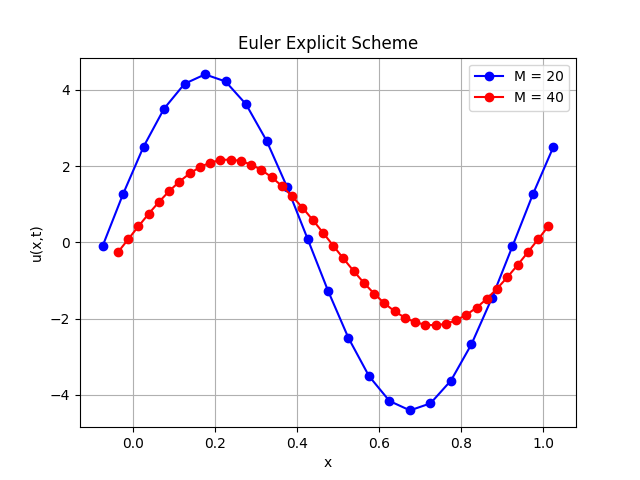
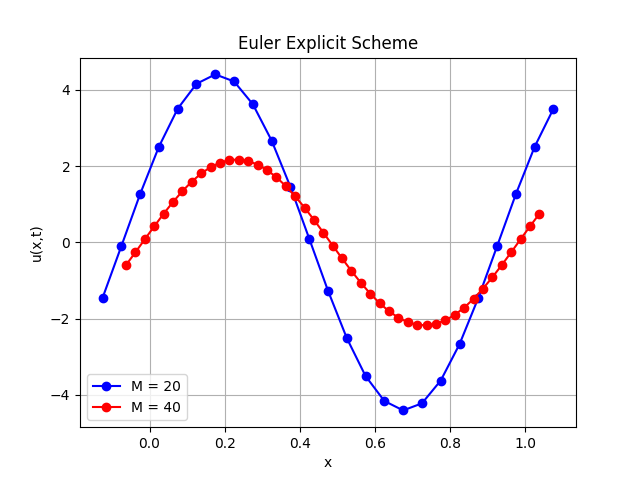
12/1 1400

diff --git a/PHW2/RK_Burger_flux.py b/PHW2/RK_Burger_flux.py
@@ -1,0 +1,113 @@
+# Author : Bo Yuan You 
+# Date 2021/11/30
+# CFD program homework 2 
+# To solve Burger eq with Euler explict method (flux)
+
+
+import numpy as np
+import matplotlib.pyplot as plt
+import time
+from RK2_Burger import RK_Burger
+
+class RK_Flux_Burger_eq(RK_Burger):
+    def __init__(self, CFL, M, alpha=0.75, k=0, limiter=False) -> None:
+        super().__init__(CFL, M, alpha=alpha)
+        # self.ul = np.zeros(M+2)
+        # self.ur = np.zeros(M+2)
+        # self.u1l = np.zeros(M+2)
+        # self.u1l = np.zeros(M+2)
+        self.k = k
+        self.limiter=limiter
+
+    def minmoid(a,b,c)->float:
+        if a>0 and b>0 and c>0:
+            return min(a,b,c)
+        elif a<0 and b<0 and c<0:
+            return max(a,b,c)
+        else:
+            return 0.0
+
+    def solver(self, t) -> None:
+        print(f'Using Runge-Kutta solver: t = {t:.2f}')
+        # if self.limiter:
+        #     for i in range(self.M+2):
+        #         self.ul[i] = self.u0[i+1] + 0.25*self.minmoid((1-self.k)*(self.u0[i+1] - self.u0[i]))
+        #         sol = 
+        # else:
+        for i in range(self.M+2):
+            ul = self.u0[i+1] + 0.25*((1-self.k)*(self.u0[i+1] - self.u0[i]) + (1+self.k)*(self.u0[i+2] - self.u0[i+1]))
+            ur = self.u0[i+2] + 0.25*((1-self.k)*(self.u0[i+2] - self.u0[i+1]) + (1+self.k)*(self.u0[i+3] - self.u0[i+2]))
+            self.f[i] = 0.5*(ul**2/2 + ur**2/2 - self.alpha*(ur - ul))
+
+
+        for i in range(self.M + 1):
+            self.u1[i+2] = self.u0[i+2] - self.DT/self.DX*(self.f[i+2] - self.f[i+1])
+        self.call_BC(self.u1)
+
+        for i in range(self.M+2):
+            ul = self.u1[i+1] + 0.25*((1-self.k)*(self.u1[i+1] - self.u1[i]) + (1+self.k)*(self.u1[i+2] - self.u1[i+1]))
+            ur = self.u1[i+2] + 0.25*((1-self.k)*(self.u1[i+2] - self.u1[i+1]) + (1+self.k)*(self.u1[i+3] - self.u1[i+2]))
+            self.f1[i] = 0.5*(ul**2/2 + ur**2/2 - self.alpha*(ur - ul))
+        
+        for i in range(self.M+2):
+            self.u2[i+2] = self.u1[i+2] - self.DT/self.DX*(self.f1[i+2] - self.f1[i+1])
+
+        self.u = 0.5 * (self.u2 + self.u).copy()
+
+    def PDE_solver(self) -> None:
+        self.u01 = np.zeros(self.M+5)
+        self.u05 = np.zeros(self.M+5)
+        t = 0
+        while t < 1.0:
+            t = round(t + self.DT, 3)
+            self.u0 = self.u.copy()
+            self.solver(t)
+            self.call_BC(self.u)
+            if (t == 0.12) or (t == 0.52):
+                if t == 0.12:
+                    self.u01 = self.u.copy()
+                    print('u01 build')
+                else:
+                    self.u05  = self.u.copy()
+                    print('u05 build')
+
+def main():
+    start = time.time()
+    M20 = RK_Flux_Burger_eq(0.8, 20, k=-1)
+    M20.full_process()
+    end = time.time() - start 
+    print('Time pass : ', end)
+
+    plt.figure(figsize=(8,5))
+    plt.title('Burger Equation with Runge Kutta Method')
+
+    # plt.subplot(1,2,1)
+    plt.title('M = 20, CFL = 0.8')
+    plt.plot(M20.Xgrid, M20.u01, 'b-o', label= 'T = 0.12')
+    plt.plot(M20.Xgrid, M20.u05, 'r-o', label= 'T = 0.52')
+    plt.plot(M20.Xgrid, M20.u, 'g-o', label= 'T = 1.0')
+    plt.xlabel('x')
+    plt.ylabel('u(x,t)')
+    plt.grid(True)
+    plt.legend()
+    plt.axis('auto')
+    
+
+    # plt.subplot(1,2,2)
+    # plt.title('M = 40, CFL = 0.8')
+    # plt.plot(M40.Xgrid, M40.u01, 'b-o', label= 'T = 0.1')
+    # plt.plot(M40.Xgrid, M40.u05, 'r-o', label= 'T = 0.5')
+    # plt.plot(M40.Xgrid, M40.u, 'g-o', label= 'T = 1.0')
+    # plt.xlabel('x')
+    # plt.ylabel('u(x,t)')
+    # plt.grid(True)
+    # plt.legend()
+    # plt.axis([0, 1, 0, 1])
+
+    plt.savefig("images/Runge_Kutta_burger.png")  
+    plt.show()
+
+if __name__ == '__main__':
+    main()
+
+    

diff --git a/PHW2/Euler_explicit_Burger_eq.py b/PHW2/Euler_explicit_Burger_eq.py
@@ -12,22 +12,23 @@ from euler_scheme import Euler_explicit_scheme
 class Euler_scheme_Burger_eq(Euler_explicit_scheme):
     def __init__(self, CFL, M, alpha = 0.75) -> None:
         super().__init__(CFL, M)
-        self.f = np.zeros(self.M+5)
         self.alpha = alpha
 
     def init_data(self) -> None:
         self.u = 0.5 + 0.25*np.sin(2*np.pi*self.Xgrid)
-        self.u01 = np.zeros(self.M+5)
-        self.u05 = np.zeros(self.M+5)
+        
 
     def solver(self, t) -> None:
         print(f'Using Euler explicit solver : t = {t:.3f}')
-        self.f = (np.square(self.u0)/2).copy()
-        print(self.f)
+        for i in range(self.M+4):
+            self.f[i] = 0.5*(self.u0[i]**2/2 + self.u0[i+1]**2/2 - self.alpha*(self.u0[i+1] - self.u0[i]))
+
         for i in range(self.M+1):
-            self.u[i+2] = self.u0[i+2] - self.DT/self.DX/2*(self.f[i+3] - self.f[i+1] - self.alpha*(self.u0[i+3] + self.u0[i+1]))
+            self.u[i+2] = self.u0[i+2] - self.DT/self.DX*(self.f[i+2] - self.f[i+1])
         
     def PDE_solver(self) -> None:
+        self.u01 = np.zeros(self.M+5)
+        self.u05 = np.zeros(self.M+5)
         t = 0
         while t < 1.0:
             t = round(t + self.DT, 3)
@@ -53,33 +54,33 @@ def main():
     print(M20.u, M20.u05)
     print('Time pass : ', end)
 
-    plt.figure()
-    # plt.title('Burger Equation with Euler Explicit Method')
-    plt.plot(M20.Xgrid, M20.u01, 'b-o', label= 'T = 0.1')
-    plt.plot(M20.Xgrid, M20.u05, 'b-o', label= 'T = 0.5')
-    plt.plot(M20.Xgrid, M20.u, 'b-o', label= 'T = 1.0')
+    plt.figure(figsize=(12,5))
+    plt.title('Burger Equation with Euler Explicit Method')
+
+    plt.subplot(1,2,1)
     plt.title('M = 20, CFL = 0.5')
+    plt.plot(M20.Xgrid, M20.u01, 'b-o', label= 'T = 0.1')
+    plt.plot(M20.Xgrid, M20.u05, 'r-o', label= 'T = 0.5')
+    plt.plot(M20.Xgrid, M20.u, 'g-o', label= 'T = 1.0')
     plt.xlabel('x')
     plt.ylabel('u(x,t)')
     plt.grid(True)
     plt.legend()
-    plt.savefig("images/Euler_scheme_burger_M20.png") 
-    plt.show()
+    plt.axis([0, 1, 0, 1])
     
 
-    plt.figure()
-    # plt.title('Burger Equation with Euler Explicit Method')
-    plt.plot(M40.Xgrid, M40.u01, 'r-o', label= 'T = 0.1')
-    plt.plot(M40.Xgrid, M40.u05, 'r-o', label= 'T = 0.5')
-    plt.plot(M40.Xgrid, M40.u, 'r-o', label= 'T = 1.0')
+    plt.subplot(1,2,2)
     plt.title('M = 40, CFL = 0.8')
+    plt.plot(M40.Xgrid, M40.u01, 'b-o', label= 'T = 0.1')
+    plt.plot(M40.Xgrid, M40.u05, 'r-o', label= 'T = 0.5')
+    plt.plot(M40.Xgrid, M40.u, 'g-o', label= 'T = 1.0')
     plt.xlabel('x')
     plt.ylabel('u(x,t)')
     plt.grid(True)
     plt.legend()
+    plt.axis([0, 1, 0, 1])
 
-    plt.axis([-0.1, 1.1, -1.2, 1.2])
-    plt.savefig("images/Euler_scheme_burger_M40.png")  
+    plt.savefig("images/Euler_scheme_burger.png")  
     plt.show()
 
 if __name__ == '__main__':

diff --git a/PHW2/RK2_Burger.py b/PHW2/RK2_Burger.py
@@ -1,0 +1,75 @@
+# Author : Bo Yuan You 
+# Date 2021/11/30
+# CFD program homework 2 
+# To solve Burger eq with Runge Kutta scheme
+
+import numpy as np
+import matplotlib.pyplot as plt
+import time
+from Euler_explicit_Burger_eq import Euler_scheme_Burger_eq
+
+class RK_Burger(Euler_scheme_Burger_eq):
+    def __init__(self, CFL, M, alpha = 0.75) -> None:
+        super().__init__(CFL, M)
+        self.alpha = alpha
+        self.u1 = np.zeros(M+5)
+        self.u2 = np.zeros(M+5)
+        self.f1 = np.zeros(M+4)
+
+    def solver(self, t) -> None:
+        print(f'Using Runge-Kutta solver: t = {t:.2f}')
+        for i in range(self.M+4):
+            self.f[i] = 0.5*(self.u[i]**2/2 + self.u[i+1]**2/2 - self.alpha*(self.u[i+1] - self.u[i]))
+
+        for i in range(self.M + 1):
+            self.u1[i+2] = self.u0[i+2] - self.DT/self.DX*(self.f[i+2] - self.f[i+1])
+        self.call_BC(self.u1)
+
+        for i in range(self.M+4):
+            self.f1[i] = 0.5*(self.u1[i]**2/2 + self.u1[i+1]**2/2 - self.alpha*(self.u1[i+1] - self.u1[i]))
+        
+        for i in range(self.M + 1):
+            self.u2[i+2] = self.u1[i+2] - self.DT/self.DX*(self.f1[i+2] - self.f1[i+1])
+
+        self.u = 0.5 * (self.u2 + self.u).copy()
+
+def main():
+    start = time.time()
+    M20 = RK_Burger(0.5, 20)
+    M20.full_process()
+    M40 = RK_Burger(0.8, 40)
+    M40.full_process()
+    end = time.time() - start 
+    print('Time pass : ', end)
+
+    plt.figure(figsize=(12,5))
+    plt.title('Burger Equation with Runge Kutta Method')
+
+    plt.subplot(1,2,1)
+    plt.title('M = 20, CFL = 0.5')
+    plt.plot(M20.Xgrid, M20.u01, 'b-o', label= 'T = 0.1')
+    plt.plot(M20.Xgrid, M20.u05, 'r-o', label= 'T = 0.5')
+    plt.plot(M20.Xgrid, M20.u, 'g-o', label= 'T = 1.0')
+    plt.xlabel('x')
+    plt.ylabel('u(x,t)')
+    plt.grid(True)
+    plt.legend()
+    plt.axis([0, 1, 0, 1])
+    
+
+    plt.subplot(1,2,2)
+    plt.title('M = 40, CFL = 0.8')
+    plt.plot(M40.Xgrid, M40.u01, 'b-o', label= 'T = 0.1')
+    plt.plot(M40.Xgrid, M40.u05, 'r-o', label= 'T = 0.5')
+    plt.plot(M40.Xgrid, M40.u, 'g-o', label= 'T = 1.0')
+    plt.xlabel('x')
+    plt.ylabel('u(x,t)')
+    plt.grid(True)
+    plt.legend()
+    plt.axis([0, 1, 0, 1])
+
+    plt.savefig("images/Runge_Kutta_burger.png")  
+    plt.show()
+
+if __name__ == '__main__':
+    main()

diff --git a/PHW2/euler_scheme.py b/PHW2/euler_scheme.py
@@ -13,25 +13,27 @@ class Euler_explicit_scheme():
         self.M = M        
         self.DX = 1/M
         self.DT = round(CFL * self.DX, 3)
-        self.Xgrid = np.linspace(0-1.5*self.DX, 1+0.5*self.DX, self.M+3)
-        self.u = np.zeros(M+3)
-        self.u0 = np.zeros(M+3)
-        self.f = np.zeros(M+2)
+        self.Xgrid = np.linspace(0-2.5*self.DX, 1+1.5*self.DX, self.M+5)
+        self.u = np.zeros(M+5)
+        self.u0 = np.zeros(M+5)
+        self.f = np.zeros(M+4)
 
     def init_data(self) -> None:
         for i in range(self.M+1):
-            self.u[i+1] = np.sin(2*np.pi*self.Xgrid[i+1])
+            self.u[i+2] = np.sin(2*np.pi*self.Xgrid[i+2])
 
     def call_BC(self, arr) -> None:
         arr[0] = arr[self.M]
-        arr[self.M+2] = arr[2]
+        arr[1] = arr[self.M+1]
+        arr[self.M+3] = arr[3]
+        arr[self.M+4] = arr[4]
 
     def solver(self, t) -> None:
         print(f'Using Euler explicit solver : t = {t:.2f}')
-        for i in range(self.M+2):
+        for i in range(self.M+4):
             self.f[i] = 0.5 * (self.u[i] + self.u[i+1])
-        for i in range(self.M + 1):
-            self.u[i+1] = self.u0[i+1] - (self.DT/self.DX*(self.f[i+1] - self.f[i]))
+        for i in range(self.M+1):
+            self.u[i+2] = self.u0[i+2] - (self.DT/self.DX*(self.f[i+2] - self.f[i+1]))
 
     def PDE_solver(self) -> None:
         t = 0

diff --git a/PHW2/Runge_Kutta_scheme.py b/PHW2/Runge_Kutta_scheme.py
@@ -11,27 +11,26 @@ from euler_scheme import Euler_explicit_scheme
 class Runge_Kutta_two_steps(Euler_explicit_scheme):
     def __init__(self, CFL, M) -> None:
         super().__init__(CFL, M)
-        self.u1 = np.zeros(M+3)
-        self.u2 = np.zeros(M+3)
-        self.f1 = np.zeros(M+2)
+        self.u1 = np.zeros(M+5)
+        self.u2 = np.zeros(M+5)
+        self.f1 = np.zeros(M+4)
 
     def solver(self, t) -> None:
         print(f'Using Runge-Kutta solver: t = {t:.2f}')
-        for i in range(self.M+2):
+        for i in range(self.M+4):
             self.f[i] = 0.5 * (self.u[i] + self.u[i+1])
 
         for i in range(self.M + 1):
-            self.u1[i+1] = self.u0[i+1] - self.DT/self.DX*(self.f[i+1] - self.f[i])
+            self.u1[i+2] = self.u0[i+2] - self.DT/self.DX*(self.f[i+2] - self.f[i+1])
         self.call_BC(self.u1)
 
-        for i in range(self.M+2):
+        for i in range(self.M+4):
             self.f1[i] = 0.5 * (self.u1[i] + self.u1[i+1])
         
         for i in range(self.M + 1):
-            self.u2[i+1] = self.u1[i+1] - self.DT/self.DX*(self.u1[i+1] - self.u1[i])
+            self.u2[i+2] = self.u1[i+2] - self.DT/self.DX*(self.f1[i+2] - self.f1[i+1])
 
         self.u = 0.5 * (self.u2 + self.u).copy()
-        self.call_BC(self.u)
 
 def main():
     start = time.time()
